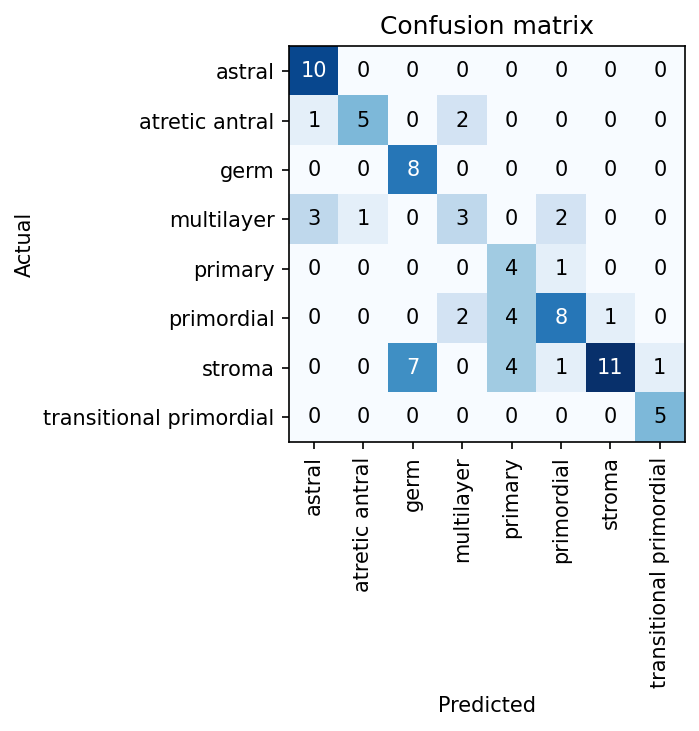
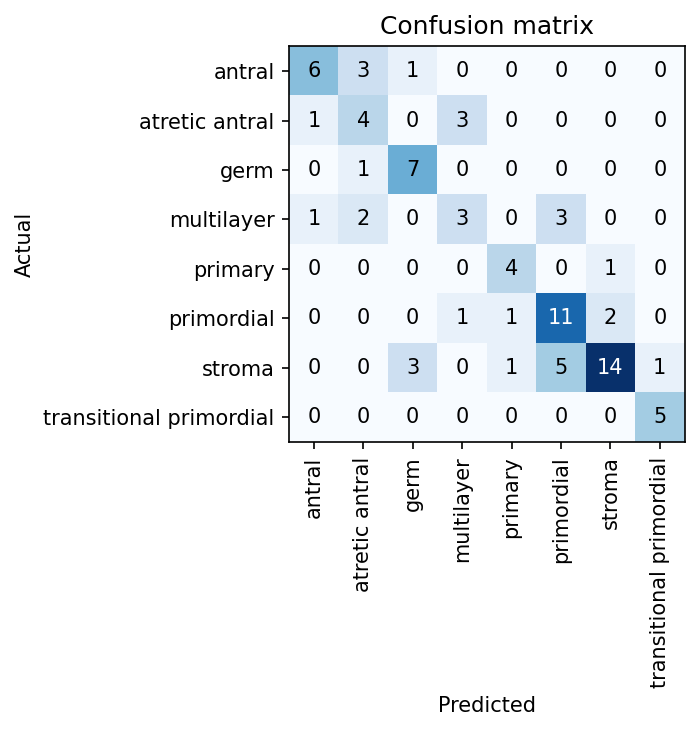
Completed ML Pipeline

diff --git a/run/cnn_pipeline.py b/run/cnn_pipeline.py
@@ -5,6 +5,8 @@ Ovarian Follicle Classification Pipeline
 ResNet34 transfer-learning classifier for histological tile images,
 with whole-slide image (WSI) inference support. 
 
+Authors: Julian Coles, Martin Orkuma, and Pamela Styborski
+
 Expected directory layout:
     <data_dir>/
         train/          ← one subfolder per class (e.g. Primordial/, Stroma/)
@@ -16,7 +18,7 @@ Usage:
 
 Debugging and code assistance for image analysis and model training
 were provided by ChatGPT (GPT 5.2 Thinking) and Claude (Opus 4.6).
-"""
+""" 
 
 from __future__ import annotations
 
@@ -37,7 +39,7 @@ from PIL import Image
 
 from fastai.vision.all import (
     ImageDataLoaders, Resize, Normalize, imagenet_stats,
-    cnn_learner, resnet34, error_rate, ClassificationInterpretation,
+    vision_learner, resnet34, error_rate, ClassificationInterpretation,
     aug_transforms, CrossEntropyLossFlat,
 )
 from fastai.callback.tracker import EarlyStoppingCallback, SaveModelCallback
@@ -359,7 +361,7 @@ def main() -> int:
     # Create learner (pretrained ResNet34) with weighted loss
     # ==================================================================
     log("initialising ResNet34 learner (ImageNet pretrained, weighted CE loss)")
-    learn = cnn_learner(dls, resnet34, metrics=error_rate, loss_func=loss_func)
+    learn = vision_learner(dls, resnet34, metrics=error_rate, loss_func=loss_func)
     learn.model.to(device)
 
     # ==================================================================
